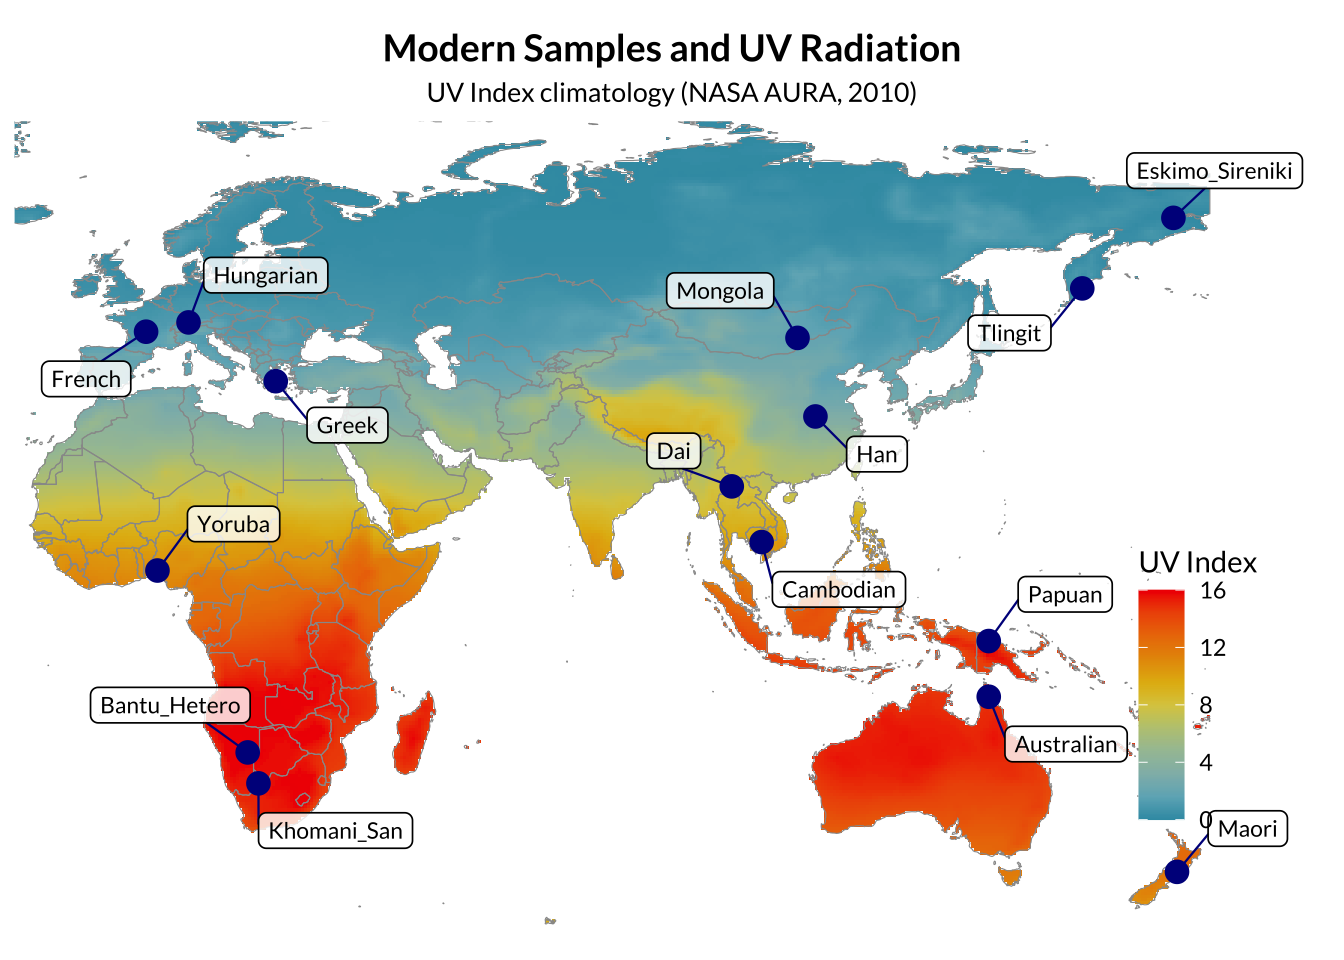
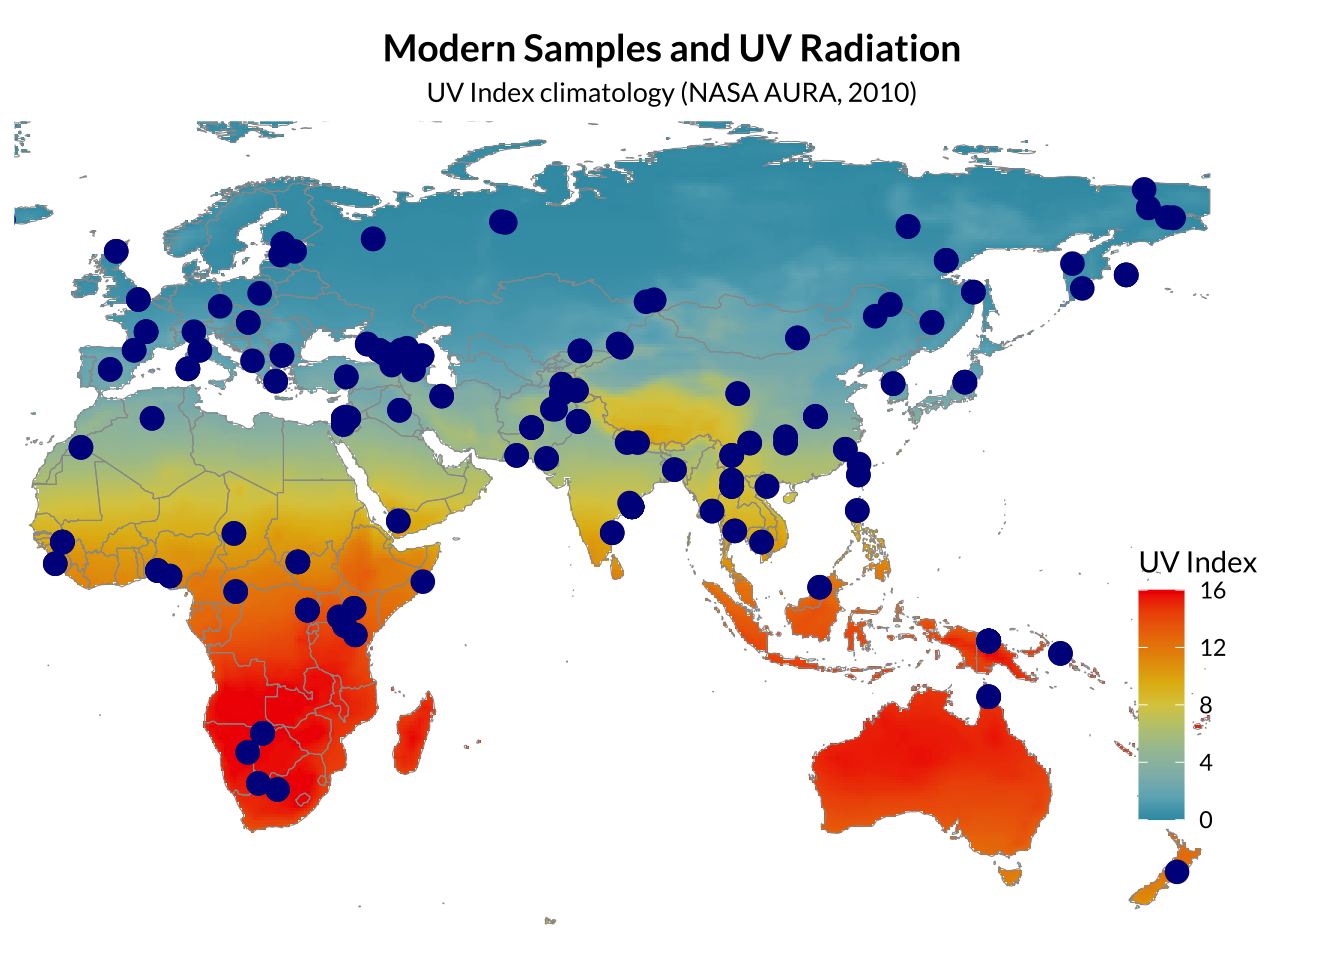
Build site.

diff --git a/docs/introduction.html b/docs/introduction.html
@@ -525,15 +525,15 @@ project makes it easier to run your code on other machines.</p>
 <div class="panel panel-default">
 <div class="panel-heading">
 <p class="panel-title">
-<a data-toggle="collapse" data-parent="#workflowr-checks" href="#strongRepositoryversionstrongahrefhttpsgithubcomlilyhealdPAINTtree739414816a6c14e261535326cb130e428a61fe36targetblank7394148a">
+<a data-toggle="collapse" data-parent="#workflowr-checks" href="#strongRepositoryversionstrongahrefhttpsgithubcomlilyhealdPAINTtree8b9cf18aaa0c100d51309ec050b013c965db5bc6targetblank8b9cf18a">
 <span class="glyphicon glyphicon-ok text-success"
 aria-hidden="true"></span> <strong>Repository version:</strong>
-<a href="https://github.com/lilyheald/PAINT/tree/739414816a6c14e261535326cb130e428a61fe36" target="_blank">7394148</a>
+<a href="https://github.com/lilyheald/PAINT/tree/8b9cf18aaa0c100d51309ec050b013c965db5bc6" target="_blank">8b9cf18</a>
 </a>
 </p>
 </div>
 <div
[2 lines of base64/hex data omitted]
 class="panel-collapse collapse">
 <div class="panel-body">
 <p>
@@ -543,7 +543,7 @@ reproducibility.
 </p>
 <p>
 The results in this page were generated with repository version
-<a href="https://github.com/lilyheald/PAINT/tree/739414816a6c14e261535326cb130e428a61fe36" target="_blank">7394148</a>.
+<a href="https://github.com/lilyheald/PAINT/tree/8b9cf18aaa0c100d51309ec050b013c965db5bc6" target="_blank">8b9cf18</a>.
 See the <em>Past versions</em> tab to see a history of the changes made
 to the R Markdown and HTML files.
 </p>
@@ -612,6 +612,40 @@ Message
 </tr>
 </thead>
 <tbody>
+<tr>
+<td>
+Rmd
+</td>
+<td>
+<a href="https://github.com/lilyheald/PAINT/blob/8b9cf18aaa0c100d51309ec050b013c965db5bc6/analysis/introduction.Rmd" target="_blank">8b9cf18</a>
+</td>
+<td>
+Lily Heald
+</td>
+<td>
+2026-03-26
+</td>
+<td>
+Update modern samples map
+</td>
+</tr>
+<tr>
+<td>
+html
+</td>
+<td>
+<a href="https://rawcdn.githack.com/lilyheald/PAINT/2b2fe923cd2023d97abfc4c5a471ee0c02355eb4/docs/introduction.html" target="_blank">2b2fe92</a>
+</td>
+<td>
+Lily Heald
+</td>
+<td>
+2026-03-26
+</td>
+<td>
+Update introduction
+</td>
+</tr>
 <tr>
 <td>
 html
@@ -1880,6 +1914,8 @@ diversity (Africa, Europe, East Asia, Central Asia, and Oceania) to
 provide a stable reference frame for principal component analysis (PCA).
 Variant call files (VCFs) were downloaded as whole-genome SNP datasets
 aligned to the GRCh37/hg19 reference genome.</p>
+<pre><code>Warning: Removed 78 rows containing missing values or values outside the scale range
+(`geom_point()`).</code></pre>
 <p><img src="figure/introduction.Rmd/modern_samples-1.png" alt="" width="672" style="display: block; margin: auto;" /></p>
 <p>
 <button type="button" class="btn btn-default btn-xs btn-workflowr btn-workflowr-fig" data-toggle="collapse" data-target="#fig-modern_samples-1">
